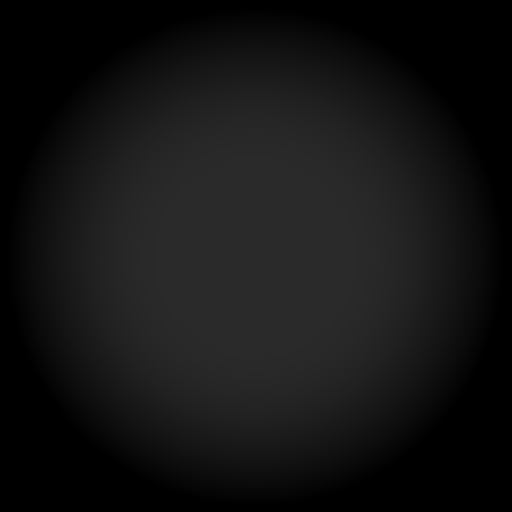
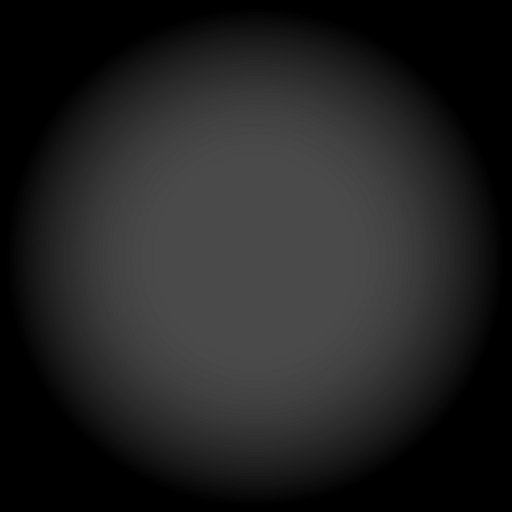
working transport

diff --git a/webgl_caustics_refactor.js b/webgl_caustics_refactor.js
@@ -37,6 +37,14 @@ void main() {
     outColor = vec4(0.0, 0.0, 0.0, 1.0);
 }
 `
+const whiteFragmentShader = `#version 300 es
+precision mediump float;
+in vec2 uv;
+out vec4 outColor;
+void main() {
+    outColor = vec4(0.1, 0.1, 0.1, 1.0);
+}
+`
 const randomFragmentShader = `#version 300 es
 precision mediump float;
 in vec2 uv;
@@ -130,7 +138,7 @@ uniform sampler2D source;
 uniform float resolution;
 void main() {
     outColor.r = texture(densities, uv).r*texture(source, uv).r;
-    outColor.r = min(outColor.r, 200.0);
+    //outColor.r = min(outColor.r, 200.0);
     outColor.a = 1.0;
 }`
 const transportUVFragmentShader = `#version 300 es
@@ -154,6 +162,9 @@ void main() {
     float n2 = texture(B, uv).r;
     outColor.r = n1 - n2;
     //if(abs(outColor.r) < 0.02) outColor.r = 0.0;
+    //if(outColor.r < 0.0) outColor.r *= 0.95;
+    float border = 0.01;
+    if(uv.x > 1.0 - border || uv.y > 1.0 - border || uv.x < border || uv.y < border) outColor.r = -0.02;
     outColor.a = 1.0;
 }
 `
@@ -164,6 +175,28 @@ out vec4 outColor;
 uniform float resolution;
 uniform sampler2D map_density;
 uniform sampler2D map_iter;
+
+float get_bh(float disp) {
+    float A = texture(map_iter, uv + vec2( 0.0,  2.0)*disp).x;
+    float B = texture(map_iter, uv + vec2(-1.0,  1.0)*disp).x;
+    float C = texture(map_iter, uv + vec2( 0.0,  1.0)*disp).x;
+    float D = texture(map_iter, uv + vec2( 1.0,  1.0)*disp).x;
+    float E = texture(map_iter, uv + vec2(-2.0,  0.0)*disp).x;
+    float F = texture(map_iter, uv + vec2(-1.0,  0.0)*disp).x;
+    
+    //float G = texture(map_iter, uv + vec2( 0.0,  0.0)*disp).x;
+    
+    float H = texture(map_iter, uv + vec2( 1.0,  0.0)*disp).x;
+    float I = texture(map_iter, uv + vec2( 2.0,  0.0)*disp).x;
+    float J = texture(map_iter, uv + vec2(-1.0, -1.0)*disp).x;
+    float K = texture(map_iter, uv + vec2( 0.0, -1.0)*disp).x;
+    float L = texture(map_iter, uv + vec2( 1.0, -1.0)*disp).x;
+    float M = texture(map_iter, uv + vec2( 0.0, -2.0)*disp).x;
+
+    return -(A + 2.0*B - 8.0*C + 2.0*D + E - 8.0*F - 8.0*H + I + 2.0*J - 8.0*K + 2.0*L + M)/20.0;
+    
+}
+
 void main() {
     outColor = vec4(0.0, 0.0, 0.0, 1.0);
     float s0 = texture(map_iter, uv).x;
@@ -171,7 +204,7 @@ void main() {
     float s2 = texture(map_iter, uv + vec2(0.0, -1.0)/resolution).x;
     float s3 = texture(map_iter, uv + vec2(1.0, 0.0)/resolution).x;
     float s4 = texture(map_iter, uv + vec2(-1.0, 0.0)/resolution).x;
-    outColor.r = (s1 + s2 + s3 + s4)*0.24 + texture(map_density, uv).x; // should be 0.25
+    outColor.r = (s1 + s2 + s3 + s4)*0.25 + texture(map_density, uv).x*0.25; // should be 0.25
     outColor.a = 1.0;
 }
 `
@@ -181,7 +214,9 @@ in vec2 uv;
 out vec4 outColor;
 uniform sampler2D map;
 void main() {
-    outColor.rgb = sin(texture(map, uv).rgb)*0.5 + vec3(0.5);
+    vec3 t = texture(map, uv).rgb;
+    outColor.rgb = -cos(0.4*t)*0.5 + vec3(0.5);
+    if(t.x < 0.0) outColor.b = 1.0;
     outColor.a = 1.0;
 }`
 const gradientFragmentShader = `#version 300 es
@@ -198,7 +233,7 @@ void main() {
     float s4 = texture(map, uv + vec2(0.0, -1.0)/resolution).x;
     outColor.r = resolution*(s1 - s2);
     outColor.g = resolution*(s3 - s4);
-    //if(length(outColor.rg) > 0.0) outColor.rg *= 1.0/length(outColor.rg);
+    //if(length(outColor.rg) > 0.0) outColor.rg /= length(outColor.rg)*0.1;
     outColor.a = 1.0;
 }`
 const accumulateVertexShader = `#version 300 es
@@ -219,16 +254,31 @@ in vec2 uv;
 out vec4 outColor;
 uniform sampler2D map_previous;
 uniform sampler2D map_delta;
+uniform sampler2D difference;
 uniform sampler2D uv_tex;
+uniform sampler2D lightmap;
 uniform float resolution;
 uniform float time;
 float rand(vec2 co){
     return fract(sin(dot(co + vec2(time, 0.0), vec2(12.9898, 78.233))) * 43758.5453)*2.0 - 1.0;
 }
 void main() {
-    vec2 adapted_coords = uv + texture(uv_tex, uv).rg;
-    outColor.rgb = texture(map_previous, uv).rgb + 0.000002*texture(map_delta, adapted_coords).rgb;
+    vec2 disp_coord = (uv*(resolution + 1.0) + 0.5)/ (resolution + 2.0);
+    vec2 adapted_coords = disp_coord + texture(uv_tex, uv).rg*0.5;
+    vec2 normal_coords = uv;
+    outColor.rgb = texture(map_previous, uv).rgb + 0.00001*texture(map_delta, adapted_coords).rgb;
     outColor.a = 1.0;
+}
+`
+const displayFragmentShader = `#version 300 es
+precision mediump float;
+in vec2 uv;
+out vec4 outColor;
+uniform sampler2D map;
+void main() {
+    outColor.rgba = texture(map, uv).rgba;
+    outColor.rgb *= 0.01;
+    outColor.b = length(outColor.rg);
 }
 `
 const ortho_camera = new THREE.OrthographicCamera( 0, 1, 1, 0, -1, 1 );
@@ -237,6 +287,13 @@ function get_quad(material, segments=2) {
     quad.position.z = - 1;
     quad.position.x = 0.5;
     quad.position.y = 0.5;
+    return quad;
+}
+function get_quad_coords(material, x, y, w, h) {
+    let quad = new THREE.Mesh(new THREE.PlaneGeometry(w, h, 2, 2), material);
+    quad.position.z = - 1;
+    quad.position.x = x;
+    quad.position.y = y;
     return quad;
 }
 class FBO {
@@ -265,6 +322,7 @@ class Shader {
 }
 const generic_shader = new Shader(genericVertexShader, genericFragmentShader);
 const black_shader = new Shader(genericVertexShader, blackFragmentShader);
+const white_shader = new Shader(genericVertexShader, whiteFragmentShader);
 const black_quad = get_quad(black_shader.material);
 function filterTo(target, shader, fbo_inputs={}, other_inputs={}, segments=2, clear=true) {
     for (const [k, v] of Object.entries(fbo_inputs)) {
@@ -286,16 +344,26 @@ function filterTo(target, shader, fbo_inputs={}, other_inputs={}, segments=2, cl
 function renderToScreen(fbo) {
     let quad = get_quad(new THREE.MeshBasicMaterial({ map: fbo.RT.texture}))
     renderer.setRenderTarget(null, ortho_camera);
-    renderer.render(quad, ortho_camera)
+    renderer.render(quad, ortho_camera);
+    quad.geometry.dispose();
+}
+function renderToScreenCoords(fbo, x, y, w, h) {
+    renderer.autoClear = false;
+    let quad = get_quad_coords(new THREE.MeshBasicMaterial({ map: fbo.RT.texture}), x, y, w, h)
+    renderer.setRenderTarget(null, ortho_camera);
+    renderer.render(quad, ortho_camera);
+    quad.geometry.dispose();
+    renderer.autoClear = true;
 }
 function renderTexToScreen(tex) {
     let quad = get_quad(new THREE.MeshBasicMaterial({ map: tex}))
     renderer.setRenderTarget(null, ortho_camera);
-    renderer.render(quad, ortho_camera)
+    renderer.render(quad, ortho_camera);
+    quad.geometry.dispose();
 }
 
 class Transporter {
-    constructor(resolution, pixel_density=4) {
+    constructor(resolution, pixel_density=2) {
         this.resolution = resolution;
         this.f_displacements = new FBO(resolution+1, THREE.LinearFilter); //
         this.f_transport_uv = new FBO(resolution*pixel_density, THREE.LinearFilter); //
@@ -308,6 +376,8 @@ class Transporter {
         this.f_accum = new FBO(resolution, THREE.LinearFilter, THREE.RGFormat);
 
         this.f_viewer = new FBO(resolution, THREE.LinearFilter);
+        this.f_viewer2 = new FBO(resolution*pixel_density, THREE.LinearFilter);
+        this.f_viewer3 = new FBO(resolution, THREE.LinearFilter);
 
         this.random_shader = new Shader(genericVertexShader, randomFragmentShader);
         this.density_shader = new Shader(genericVertexShader, densityCalculationFragmentShader);
@@ -318,11 +388,14 @@ class Transporter {
         this.sine_shader = new Shader(genericVertexShader, sineFragmentShader);
         this.gradient_shader = new Shader(genericVertexShader, gradientFragmentShader);
         this.accumulate_shader = new Shader(accumulateVertexShader, accumulateFragmentShader);
+        this.wireframe_shader = new Shader(transportVertexShader, whiteFragmentShader, THREE.AdditiveBlending);
+        this.wireframe_shader.material.wireframe = true;
+        this.display_shader = new Shader(genericVertexShader, displayFragmentShader);
 
         this.t_source = new THREE.TextureLoader().load('source.png');
-        this.t_target = new THREE.TextureLoader().load('darkstars.png');
+        this.t_target = new THREE.TextureLoader().load('meow.png');
     
-        this.poisson_iter = 100;
+        this.poisson_iter = 50;
     }
     render() {
         //filterTo(this.f_displacements, black_shader, {}, {time: mouse.x});
@@ -351,13 +424,21 @@ class Transporter {
             this.resolution
         );
         
+        filterTo(this.f_viewer2, 
+            this.wireframe_shader,
+            {displacements: this.f_displacements,
+                densities: this.f_densities},
+            {resolution: this.resolution},
+            this.resolution
+        );
+
         filterTo(this.f_difference,
             this.subtract_shader,
             {B: this.f_lightmap},
             {A: this.t_target}
         );
 
-        filterTo(this.f_tempB, black_shader);
+        filterTo(this.f_tempB, white_shader);
 
         for(let i = 0; i < this.poisson_iter; i++) {
             filterTo(this.f_tempA,
@@ -387,7 +468,9 @@ class Transporter {
         filterTo(this.f_accum, this.accumulate_shader,
             {map_previous: this.f_displacements,
             map_delta: this.f_gradient,
-            uv_tex: this.f_displacements},
+            uv_tex: this.f_displacements,
+            difference: this.f_difference,
+            lightmap: this.f_lightmap},
             {resolution: this.resolution,
                 time: ii
             }
@@ -396,11 +479,18 @@ class Transporter {
 
         filterTo(this.f_displacements, generic_shader, {map: this.f_accum});
 
-        filterTo(this.f_viewer, this.sine_shader, {map: this.f_gradient});
+        filterTo(this.f_viewer, this.sine_shader, {map: this.f_tempB});
+        filterTo(this.f_viewer3, this.display_shader, {map: this.f_gradient});
 
         //renderToScreen(this.f_transport_uv);
         //renderToScreen(this.f_displacements);
-        renderToScreen(this.f_lightmap);
+        //renderToScreen(this.f_lightmap);
+        renderToScreenCoords(this.f_lightmap, 0.25, 0.75, 0.5, 0.5);
+        renderToScreenCoords(this.f_viewer2, 0.25, 0.25, 0.5, 0.5);
+        renderToScreenCoords(this.f_viewer, 0.75, 0.25, 0.5, 0.5);
+        renderToScreenCoords(this.f_viewer3, 0.75, 0.75, 0.5, 0.5);
+        //renderToScreen(this.f_viewer2);
+        //renderToScreen(this.f_difference);
         //renderToScreen(this.f_viewer);
         //renderToScreen(this.f_densities);
         //renderTexToScreen(this.t_source);
@@ -415,7 +505,7 @@ const letter_texture = new THREE.TextureLoader().load('letter.png');
 let test_tex = new FBO(500);
 let test_tex_2 = new FBO(500);
 
-let tsp = new Transporter(200);
+let tsp = new Transporter(500);
 
 function update_app() {
     tsp.render();

diff --git a/README.md b/README.md
@@ -8,4 +8,4 @@ My take on the problem:
 
 I'm rewriting / porting the code for this over to JS/WebGL and dropping it in here, so hopefully I'll have a nice static web app once I'm done with that. Aiming for .STL export (would be cool to CNC some acrylic once it's set up).
 
-![caustic test](caustics_test.png)
+![caustic test](screenshot.png)
